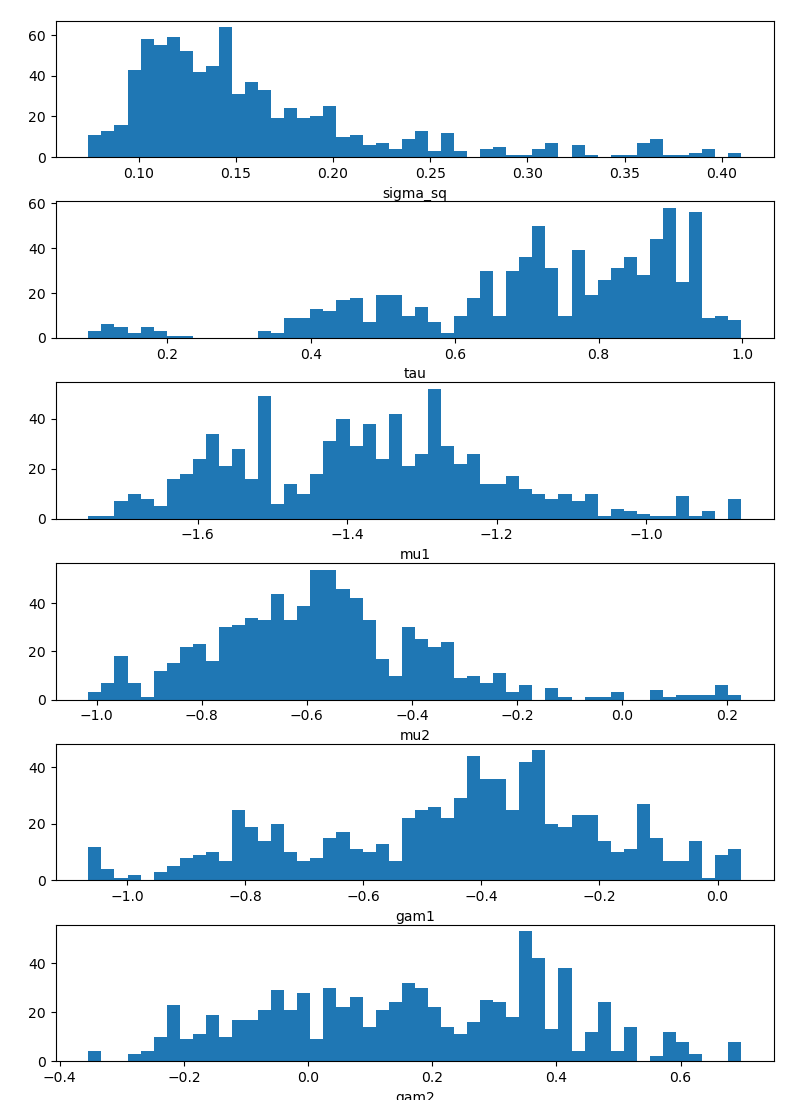
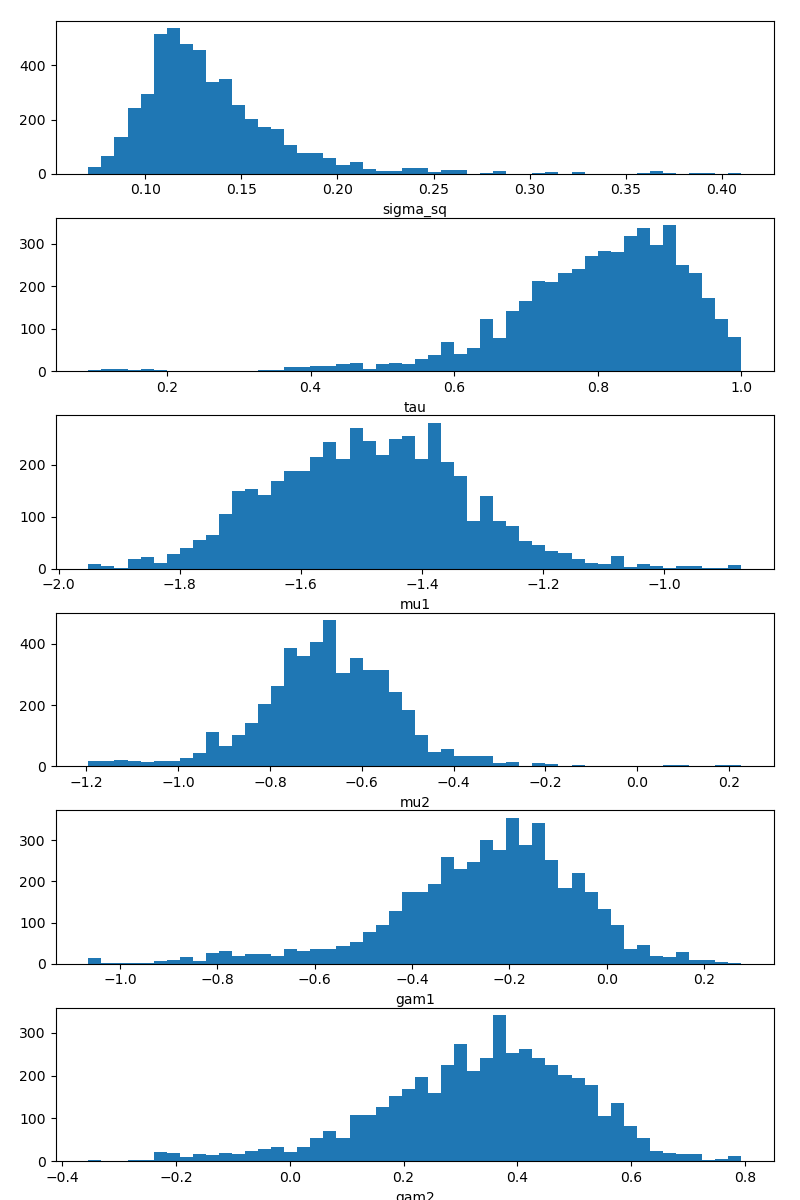
Fixed sigma squared posterior conditional

diff --git a/source/gibbs_sampling.py b/source/gibbs_sampling.py
@@ -23,10 +23,9 @@ def sample_sigma_sq_conditional_posterior(data, theta):
     for j in range(1,num_groups+1):
         yi_j = fetch_data_for_group(data, group_id=j)
         mean.append(np.repeat(mu.reshape(2,1), yi_j.shape[0], axis=1).T)
-    # scale = 0.5 * np.sum(data[['X1', 'X2']]-np.vstack(mean), axis=0)
-    scale = 1
+    scale = 0.5 * np.sum(np.power(np.linalg.norm(data[['X1', 'X2']]-np.vstack(mean), ord=2, axis=1), 2))
 
-    return scale * invgamma.rvs(num_data_points + 2)
+    return scale * invgamma.rvs(num_data_points)  # n + 2?
 
 
 def sample_tau_conditional_posterior(data, theta):
@@ -133,7 +132,7 @@ def gibbs_sampling(data, n_samples):
     current = [1, 0.5, 0, 0, 0, 0]
     samples = [current]
 
-    it = 0
+    it = -1
     while it < n_samples:  # num_samples * num_params
         it += 1
         idx = it % 4  # systematic

diff --git a/source/metrpolis_hastings.py b/source/metrpolis_hastings.py
@@ -92,7 +92,7 @@ if __name__ == '__main__':
 
     np.random.seed(42)
     step_size = np.ones(6)*0.05
-    n_samples = 1000
+    n_samples = 5000
     burn_in = 200
 
     file_path = os.path.join(os.path.pardir, 'data', infile)
